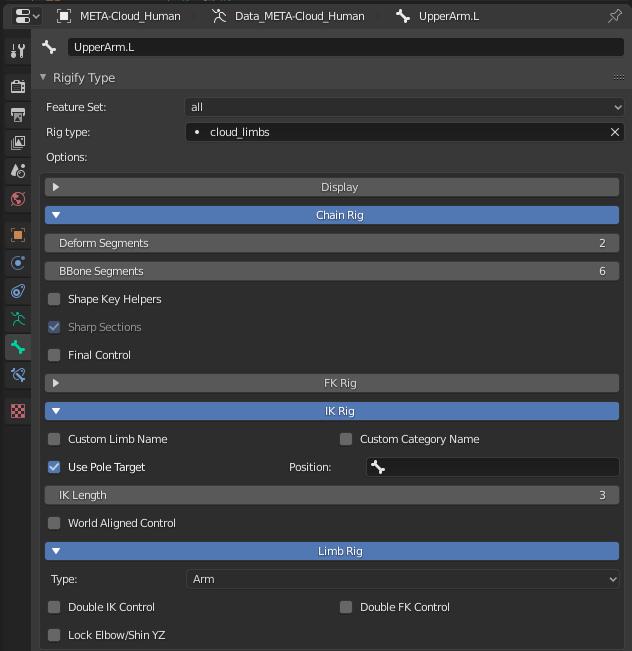
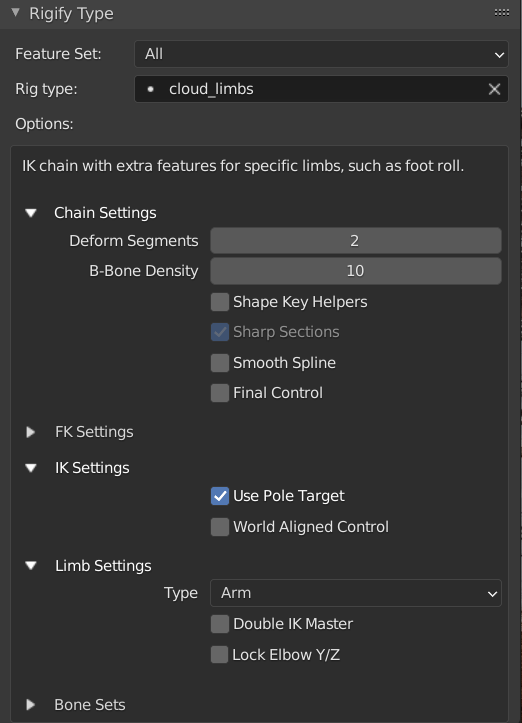
readme: give up

Changed region(s): [[0.0, 0.0, 1.0, 1.0]]

diff --git a/README.md b/README.md
@@ -1,7 +1,7 @@
 # What is CloudRig?
-CloudRig is a custom featureset package for the [Rigify](https://docs.blender.org/manual/en/latest/addons/rigging/rigify/introduction.html) Blender addon, developed for the Blender Animation Studio in-house, with the help of professional animators.
+CloudRig is a collection of customizable rig building blocks that can be added to the [Rigify](https://docs.blender.org/manual/en/latest/addons/rigging/rigify/introduction.html) Blender addon and rigging system. It is being developed for and by the Blender Animation Studio, with the guidance of professional animators.
 
-Put another way, CloudRig is a collection of customizable rig building blocks That can be added to Rigify.
+You can support this work by subscribing to the [Blender Cloud](https://cloud.blender.org/)!
 
 # Installing CloudRig
 Download this repository as a .zip via the "Clone or download" button.
@@ -10,7 +10,7 @@ In the Rigify addon preferences, click on **Rigify: External feature sets->Insta
 ![](docs/featureset_load.gif)  
 
 # Using CloudRig
-The easiest way to get started is to add the pre-built human metarig via **Add->Armature->Cloud Human (Metarig)**.
+The easiest way to get started is to add the pre-built human metarig via **Add->Armature->Cloud Human (Metarig)**.  
 Next, you can generate this rig via **Properties->Object Data->Rigify Buttons->Generate Rig**.
 And bam, you have a rig!  
 ![](docs/armature_generate.gif)  
@@ -18,6 +18,7 @@ And bam, you have a rig!
 You can try moving around the bones in the Metarig in edit mode, and then generating again, to see the rig re-generated to the new proportions.
 
 CloudRig only helps you up to this stage in the rigging process - Weight Painting is still ahead of you. All the deform bones are on a single layer. You will have to weight paint your character to these bones using whatever your preferred workflow is.
+
 
 ### Rig Elements
 In order to customize a rig element, try selecting the "UpperArm.L" bone in pose mode. Then go to Properties->Bone->Rigify Type. You should find this interface:  